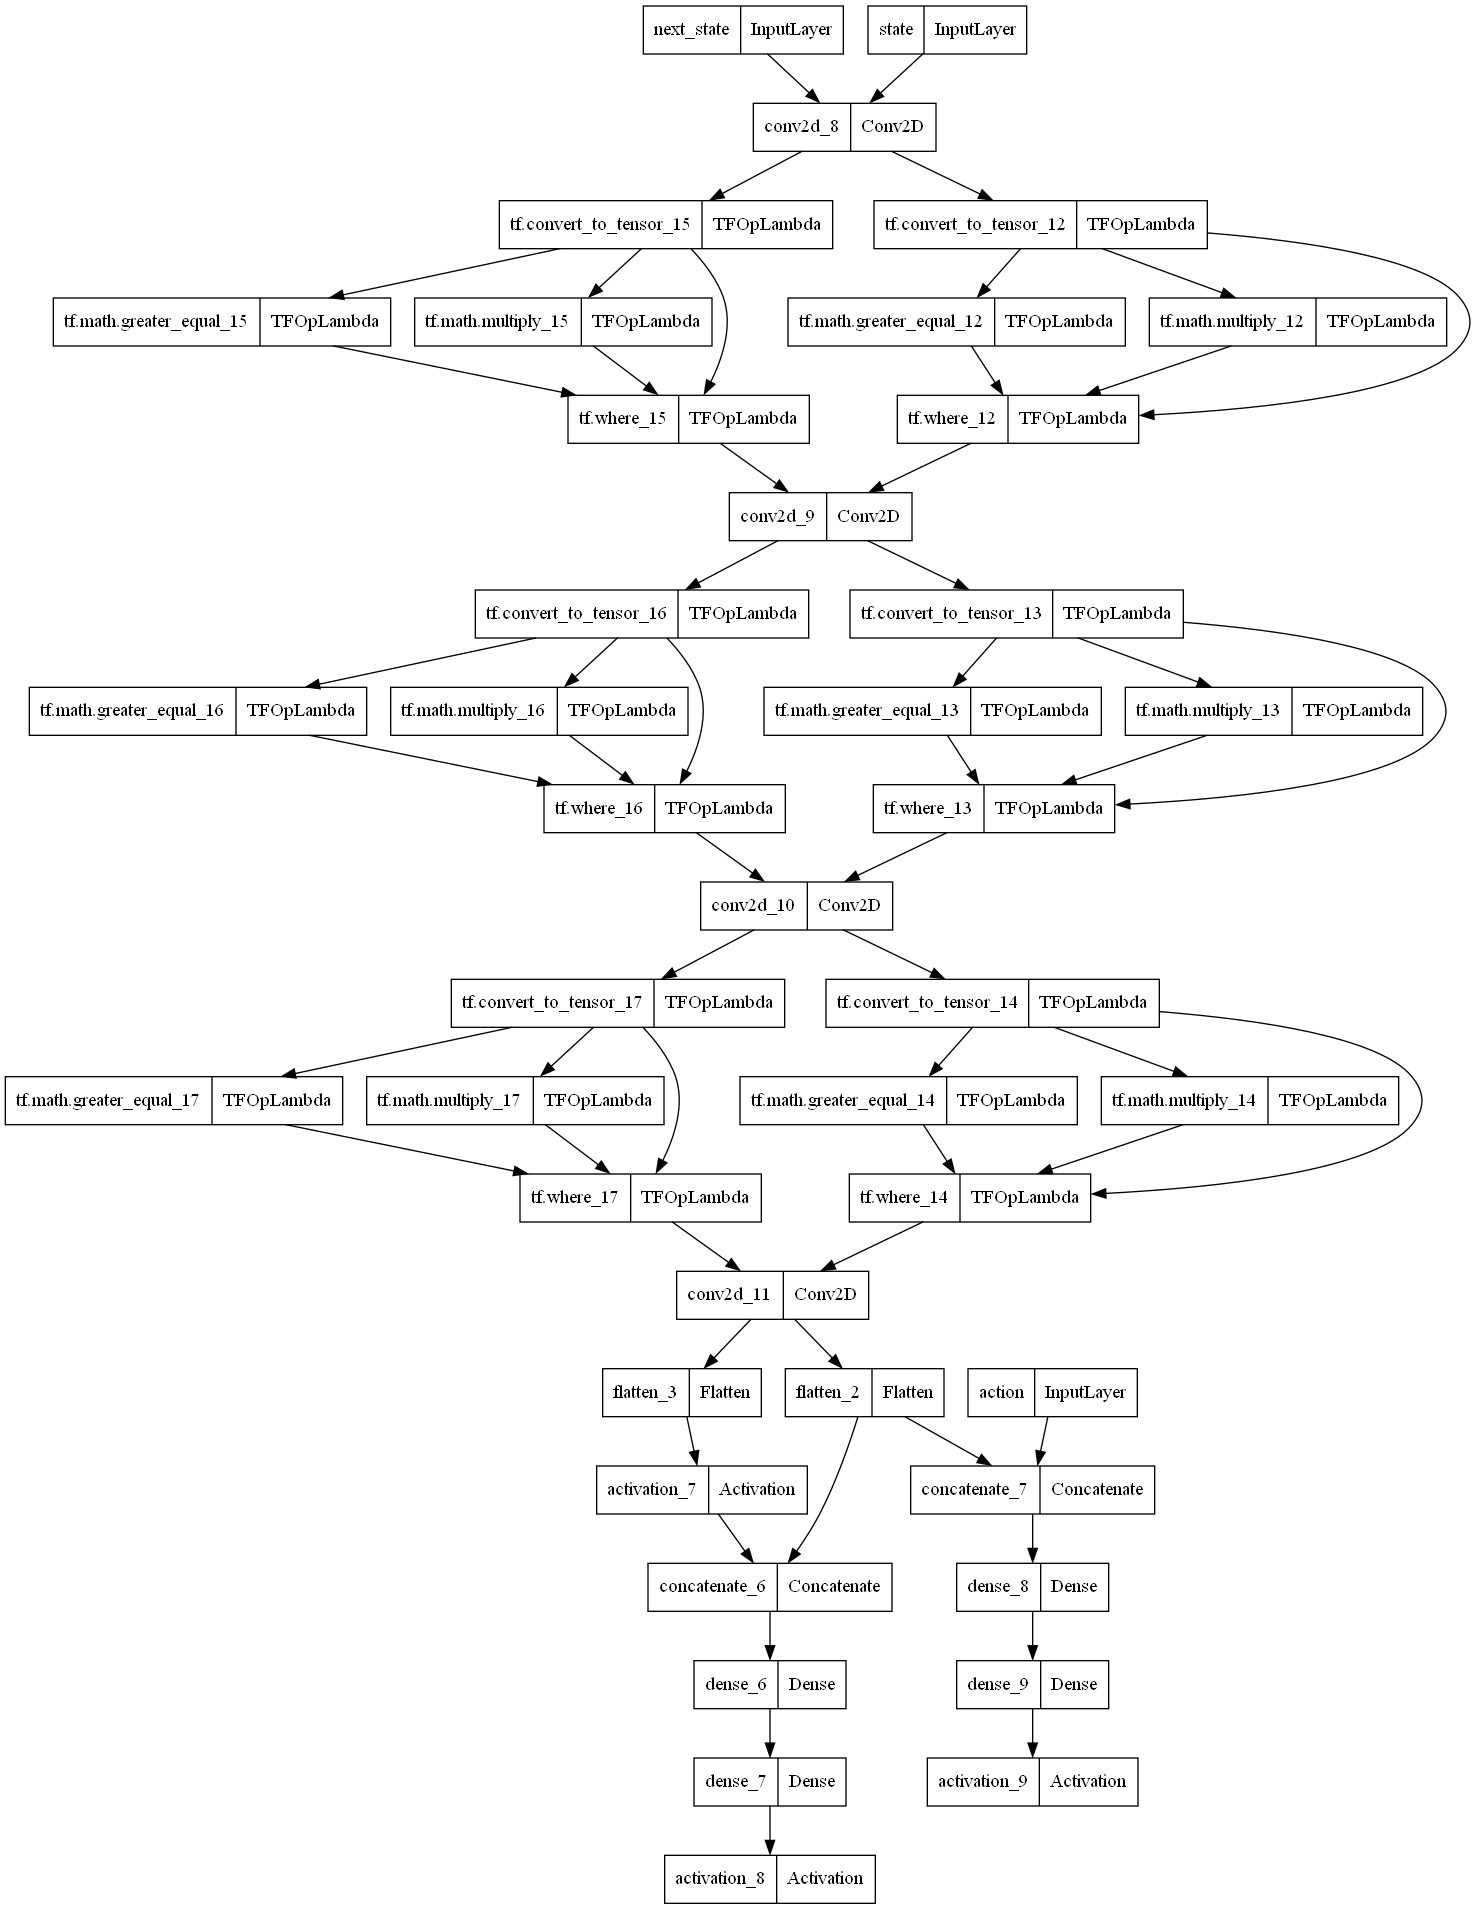
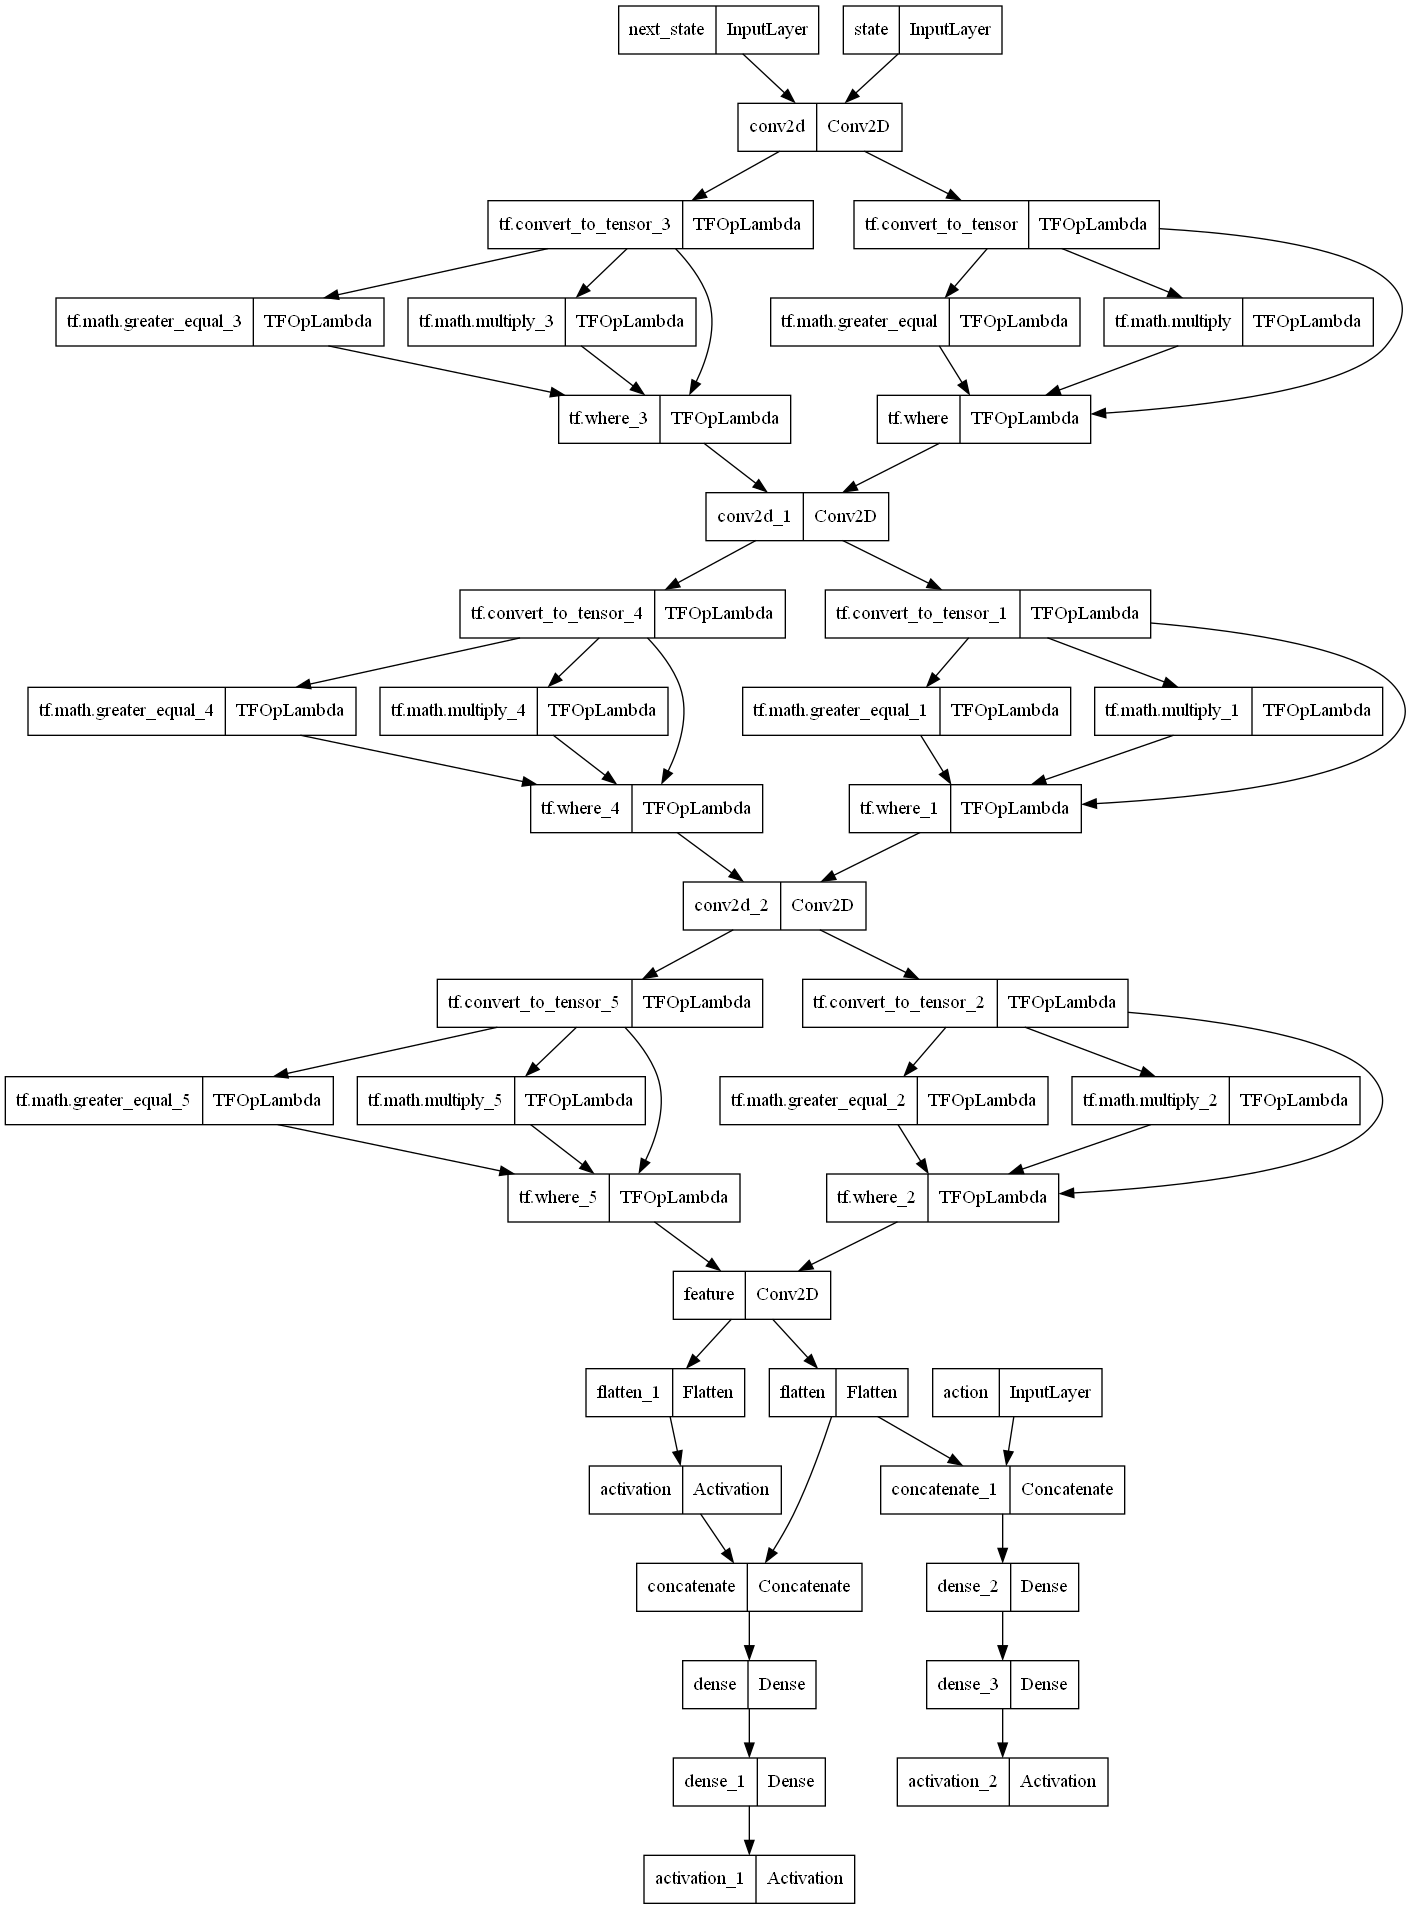
update network architecture

diff --git a/snake_ai/networks/icm.py b/snake_ai/networks/icm.py
@@ -1,3 +1,5 @@
+from numpy import float32
+from numpy.typing import NDArray
 import tensorflow as tf
 import tensorflow_addons as tfa
 
@@ -8,28 +10,28 @@ class ICM(tf.keras.Model):
         super().__init__()
         self.n_actions = n_actions
         self.max_size = max_size + 2
-        self.conv1 = tf.keras.layers.Conv2D(32, 3, 2, input_shape=(4, max_size, max_size))
-        self.conv2 = tf.keras.layers.Conv2D(32, 3, 2)
-        self.conv3 = tf.keras.layers.Conv2D(32, 3, 2)
-        self.features = tf.keras.layers.Conv2D(32, 3, 2)
+        self.conv1 = tf.keras.layers.Conv2D(32, 3, 2, input_shape=(4, max_size, max_size), padding='same')
+        self.conv2 = tf.keras.layers.Conv2D(32, 3, 2, padding='same')
+        self.conv3 = tf.keras.layers.Conv2D(32, 3, 2, padding='same')
+        self.features = tf.keras.layers.Conv2D(32, 3, 2, padding='same', name='feature')
         self.inverse1 = tf.keras.layers.Dense(256)
         self.inverse2 = tf.keras.layers.Dense(n_actions)
         self.next_features_prediction1 = tf.keras.layers.Dense(256)
-        self.next_features_prediction2 = tf.keras.layers.Dense(128)
+        self.next_features_prediction2 = tf.keras.layers.Dense(self._features_shape * self._features_shape * 32)
 
     def feature_extract(self, state):
         features = self.conv1(state)
-        features = tfa.activations.rrelu(features)
+        features = tf.nn.relu6(features)
         features = self.conv2(features)
-        features = tfa.activations.rrelu(features)
+        features = tf.nn.relu6(features)
         features = self.conv3(features)
-        features = tfa.activations.rrelu(features)
+        features = tf.nn.relu6(features)
         features = self.features(features)
         features = tf.keras.layers.Flatten()(features)
         return features
 
-    def call(self, inputs: tuple):
-        action, board, next_board, = inputs
+    def call(self, inputs: tuple[NDArray[float32], NDArray[float32], NDArray[float32]]):
+        action, board, next_board = inputs
         features = self.feature_extract(board)
         next_features = self.feature_extract(next_board)
         next_features = tf.keras.layers.Activation('linear', dtype='float32')(next_features)
@@ -42,6 +44,13 @@ class ICM(tf.keras.Model):
         next_features_prediction = self.next_features_prediction2(next_features_prediction)
         next_features_prediction = tf.keras.layers.Activation('linear', dtype='float32')(next_features_prediction)
         return next_features, next_features_prediction, inv
+
+    @property
+    def _features_shape(self) -> int:
+        shape = self.max_size
+        for _ in range(4):
+            shape = (shape - 1) // 2 + 1
+        return shape
 
     def plot(self):
         action = tf.keras.Input(shape=(self.n_actions), name='action')

diff --git a/snake_ai/ppo/__init__.py b/snake_ai/ppo/__init__.py
@@ -21,31 +21,28 @@ class PPOTrainer:
         self.env = SnakeGame()
         self.agent = PPOAgent()
 
-    def train(self) -> None:
+    def train(self, experiment_name: str | None = None) -> None:
+        if experiment_name is None:
+            experiment_name = datetime.now().strftime("%Y%m%d-%H%M%S")
         print('training started...')
         ratio_increment = 1.0 / ((self.n_iter * self.growing_factor) if self.n_iter != 0 else self.growing_end_epoch)
         start_time = time()
-        summary_writer = tf.summary.create_file_writer(f'logs/PPO-{datetime.now().strftime("%Y%m%d-%H%M%S")}')
+        summary_writer = tf.summary.create_file_writer(f'logs/PPO-{experiment_name}')
         looper = range(self.n_iter) if self.n_iter else count()
         try:
             for i in looper:
                 board, direction = self.env.reset(min(1, i * ratio_increment))
                 done = False
-                total_score = 0
-                total_step = 0
                 while not done:
-                    total_step += 1
                     action, prob, val = self.agent.choose_action(board, direction)
                     (next_board, next_direction), reward, done = self.env.step(action)
-                    total_score += reward
                     self.agent.store_transition(board, direction, action, prob, val, reward, done)
                     if self.agent.reply_buffer.is_full:
                         self.agent.set_last_last_board(next_board)
                         self.agent.learn()
                     board, direction = next_board, next_direction
                 with summary_writer.as_default():
-                    tf.summary.scalar('total score', total_score, step=i)
-                print(self.env._snake.__len__(), total_score, self.env._curr_size, total_step)
+                    tf.summary.scalar('snake length', self.env.snake_length, step=i)
                 if i % 100 == 0:
                     self.agent.save_model()
         except KeyboardInterrupt:

diff --git a/snake_game/snake_game.py b/snake_game/snake_game.py
@@ -27,7 +27,7 @@ class SnakeGame:
         self.reset(0.001)
 
     @property
-    def _reach_boder(self) -> bool:
+    def _snake_reach_boder(self) -> bool:
         return self._snake.head > self._curr_size or self._snake.head < 1
 
     @property
@@ -46,7 +46,11 @@ class SnakeGame:
         2. the snake has reached the boder
         3. the snake has clashed into itself
         """
-        return self._snake.starved or self._reach_boder or self._snake.clash_into_self
+        return self._snake.starved or self._snake_reach_boder or self._snake.clash_into_self
+
+    @property
+    def snake_length(self) -> int:
+        return len(self._snake)
 
     def _new_food_pos(self) -> Point:
         if (pos := self._food_poses.pop()) not in self._snake:
